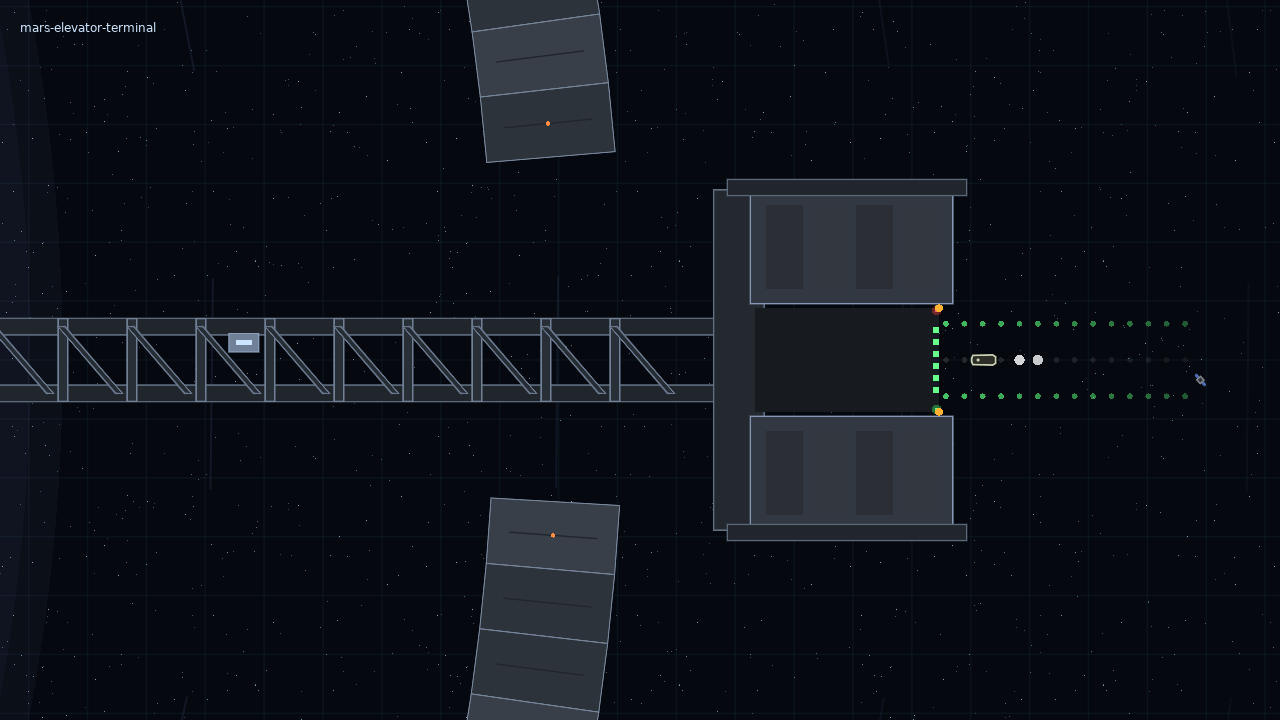
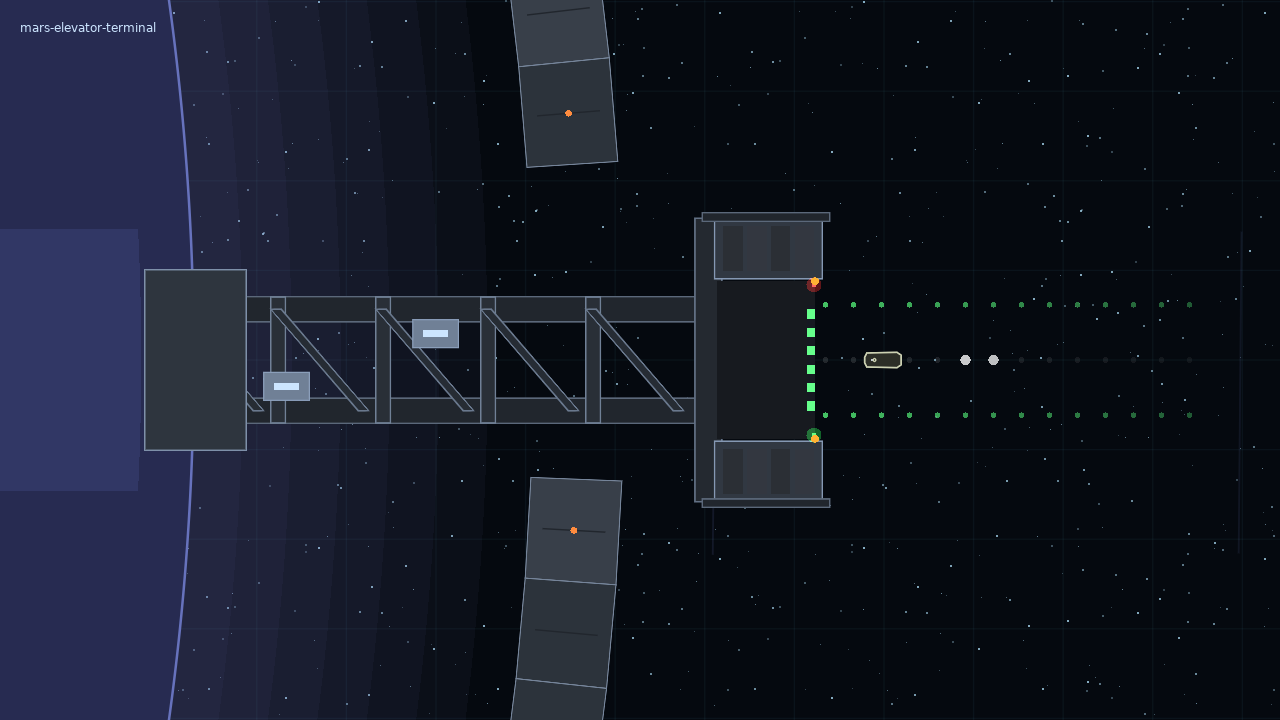
Reduce elevator scale and return the ring close to Mars

diff --git a/README.md b/README.md
@@ -56,7 +56,7 @@ file) onto `love.exe`.
 
 ## Surface elevators and the Heaven-Ladder
 
-Mars's Heaven-Ladder has a 560-pixel-thick moving belt rotating against the
+Mars's Heaven-Ladder has a 260-pixel-thick moving belt rotating against the
 planetary current, with eight broad passage gaps. Two fixed, exposed-truss
 surface elevators bridge over the belt to large outward-facing terminals.
 Both terminals are one station: storage, market, hangar and services are shared.
